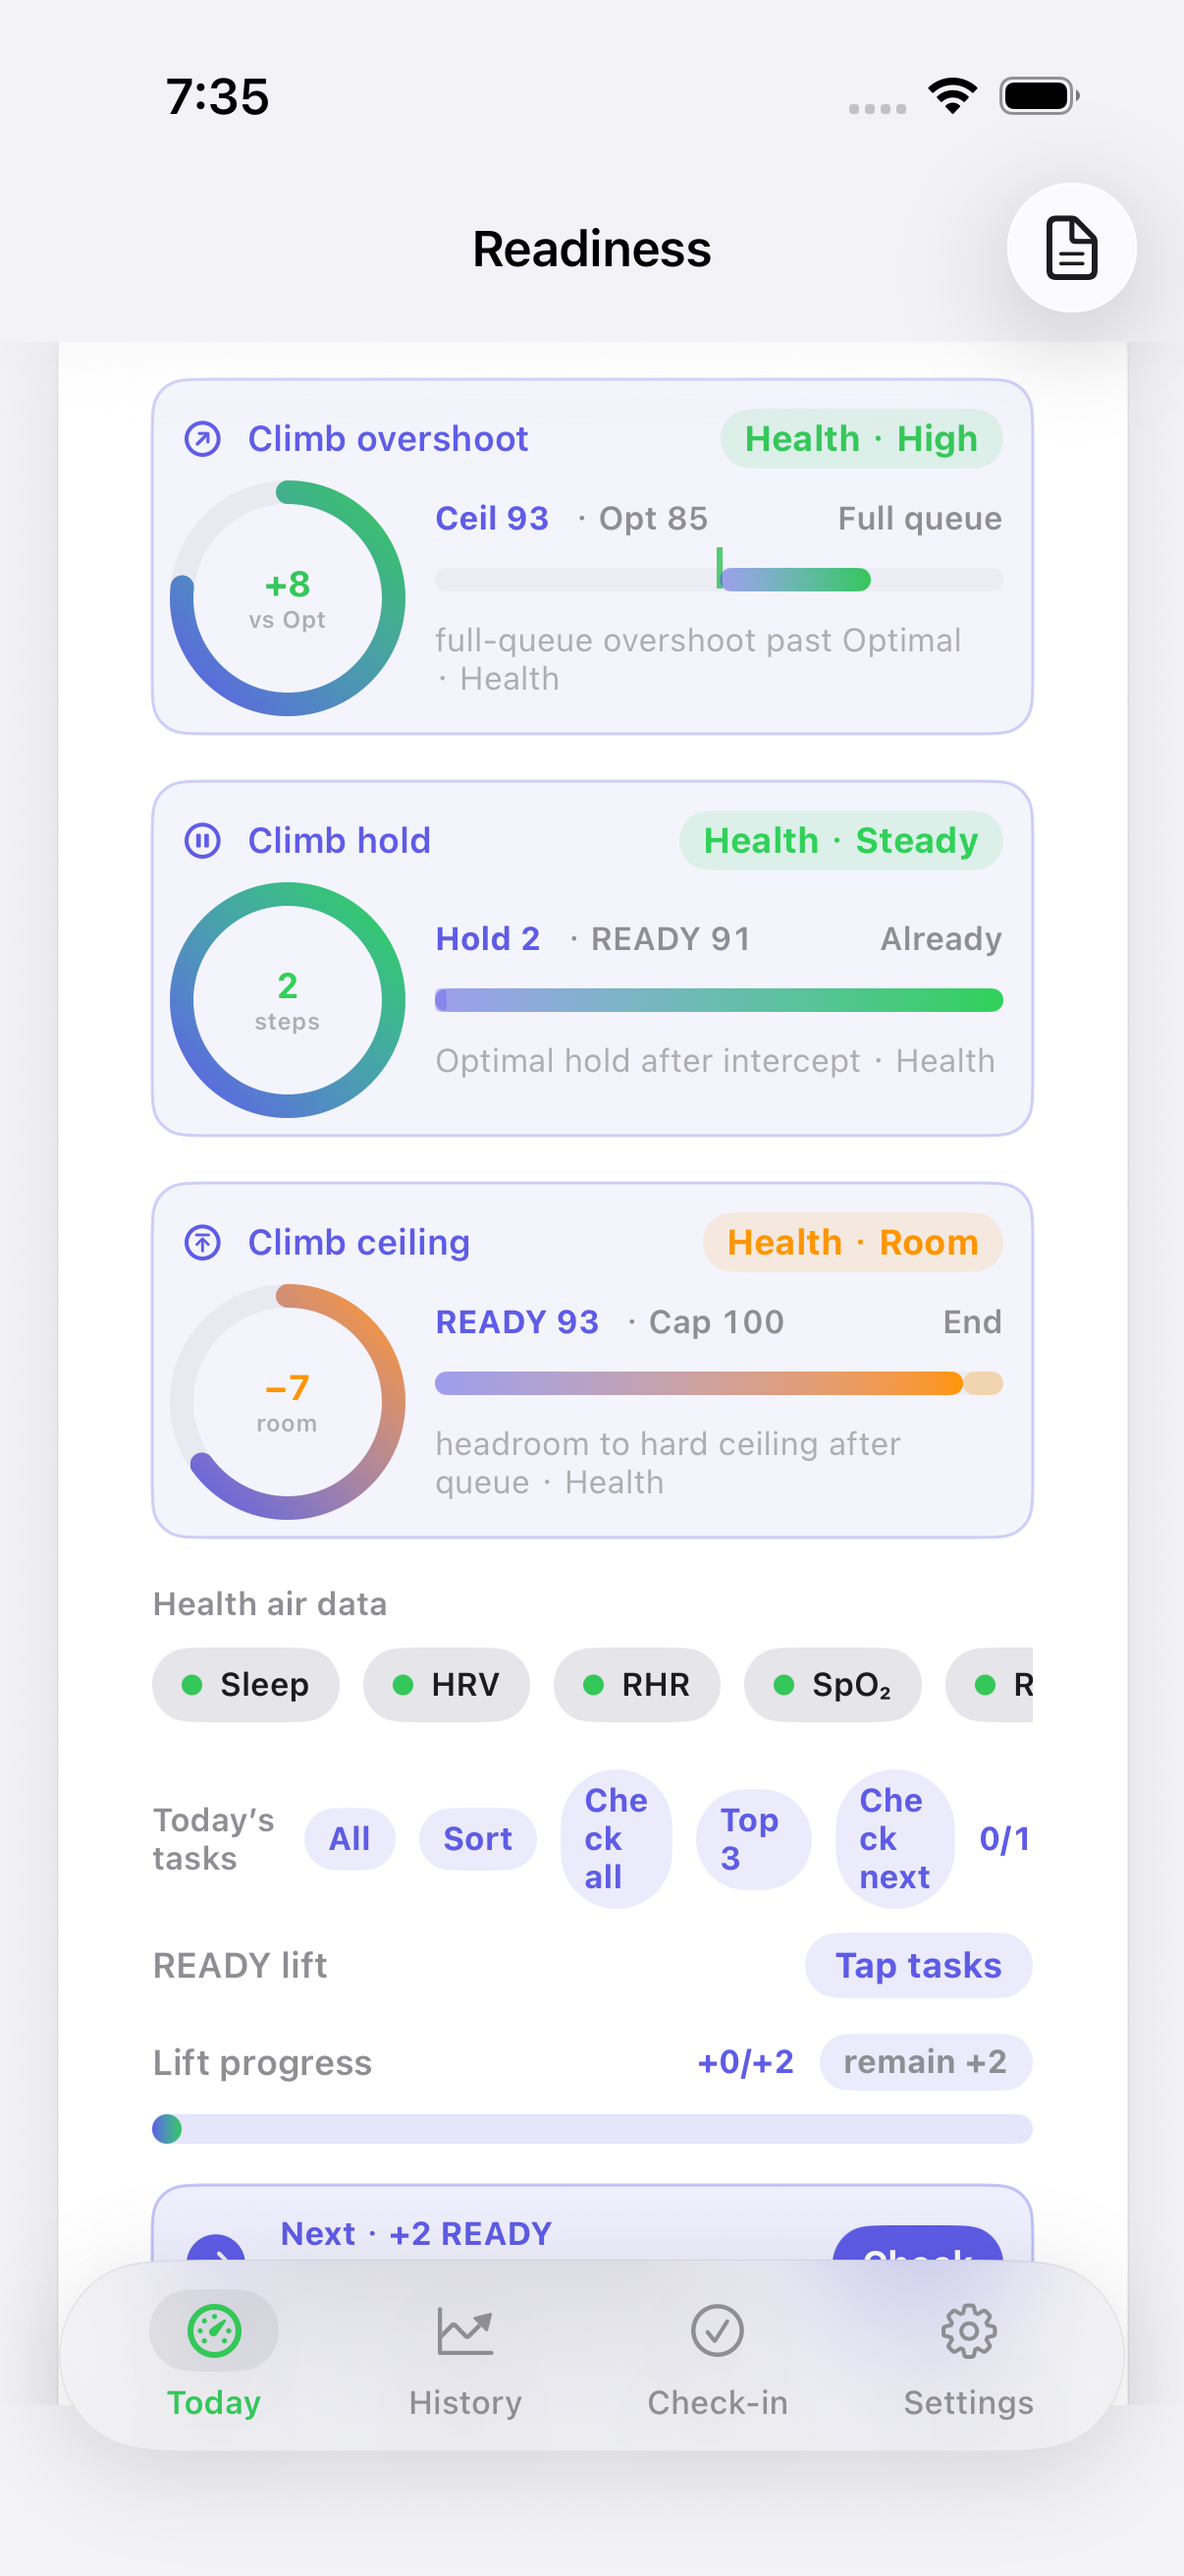
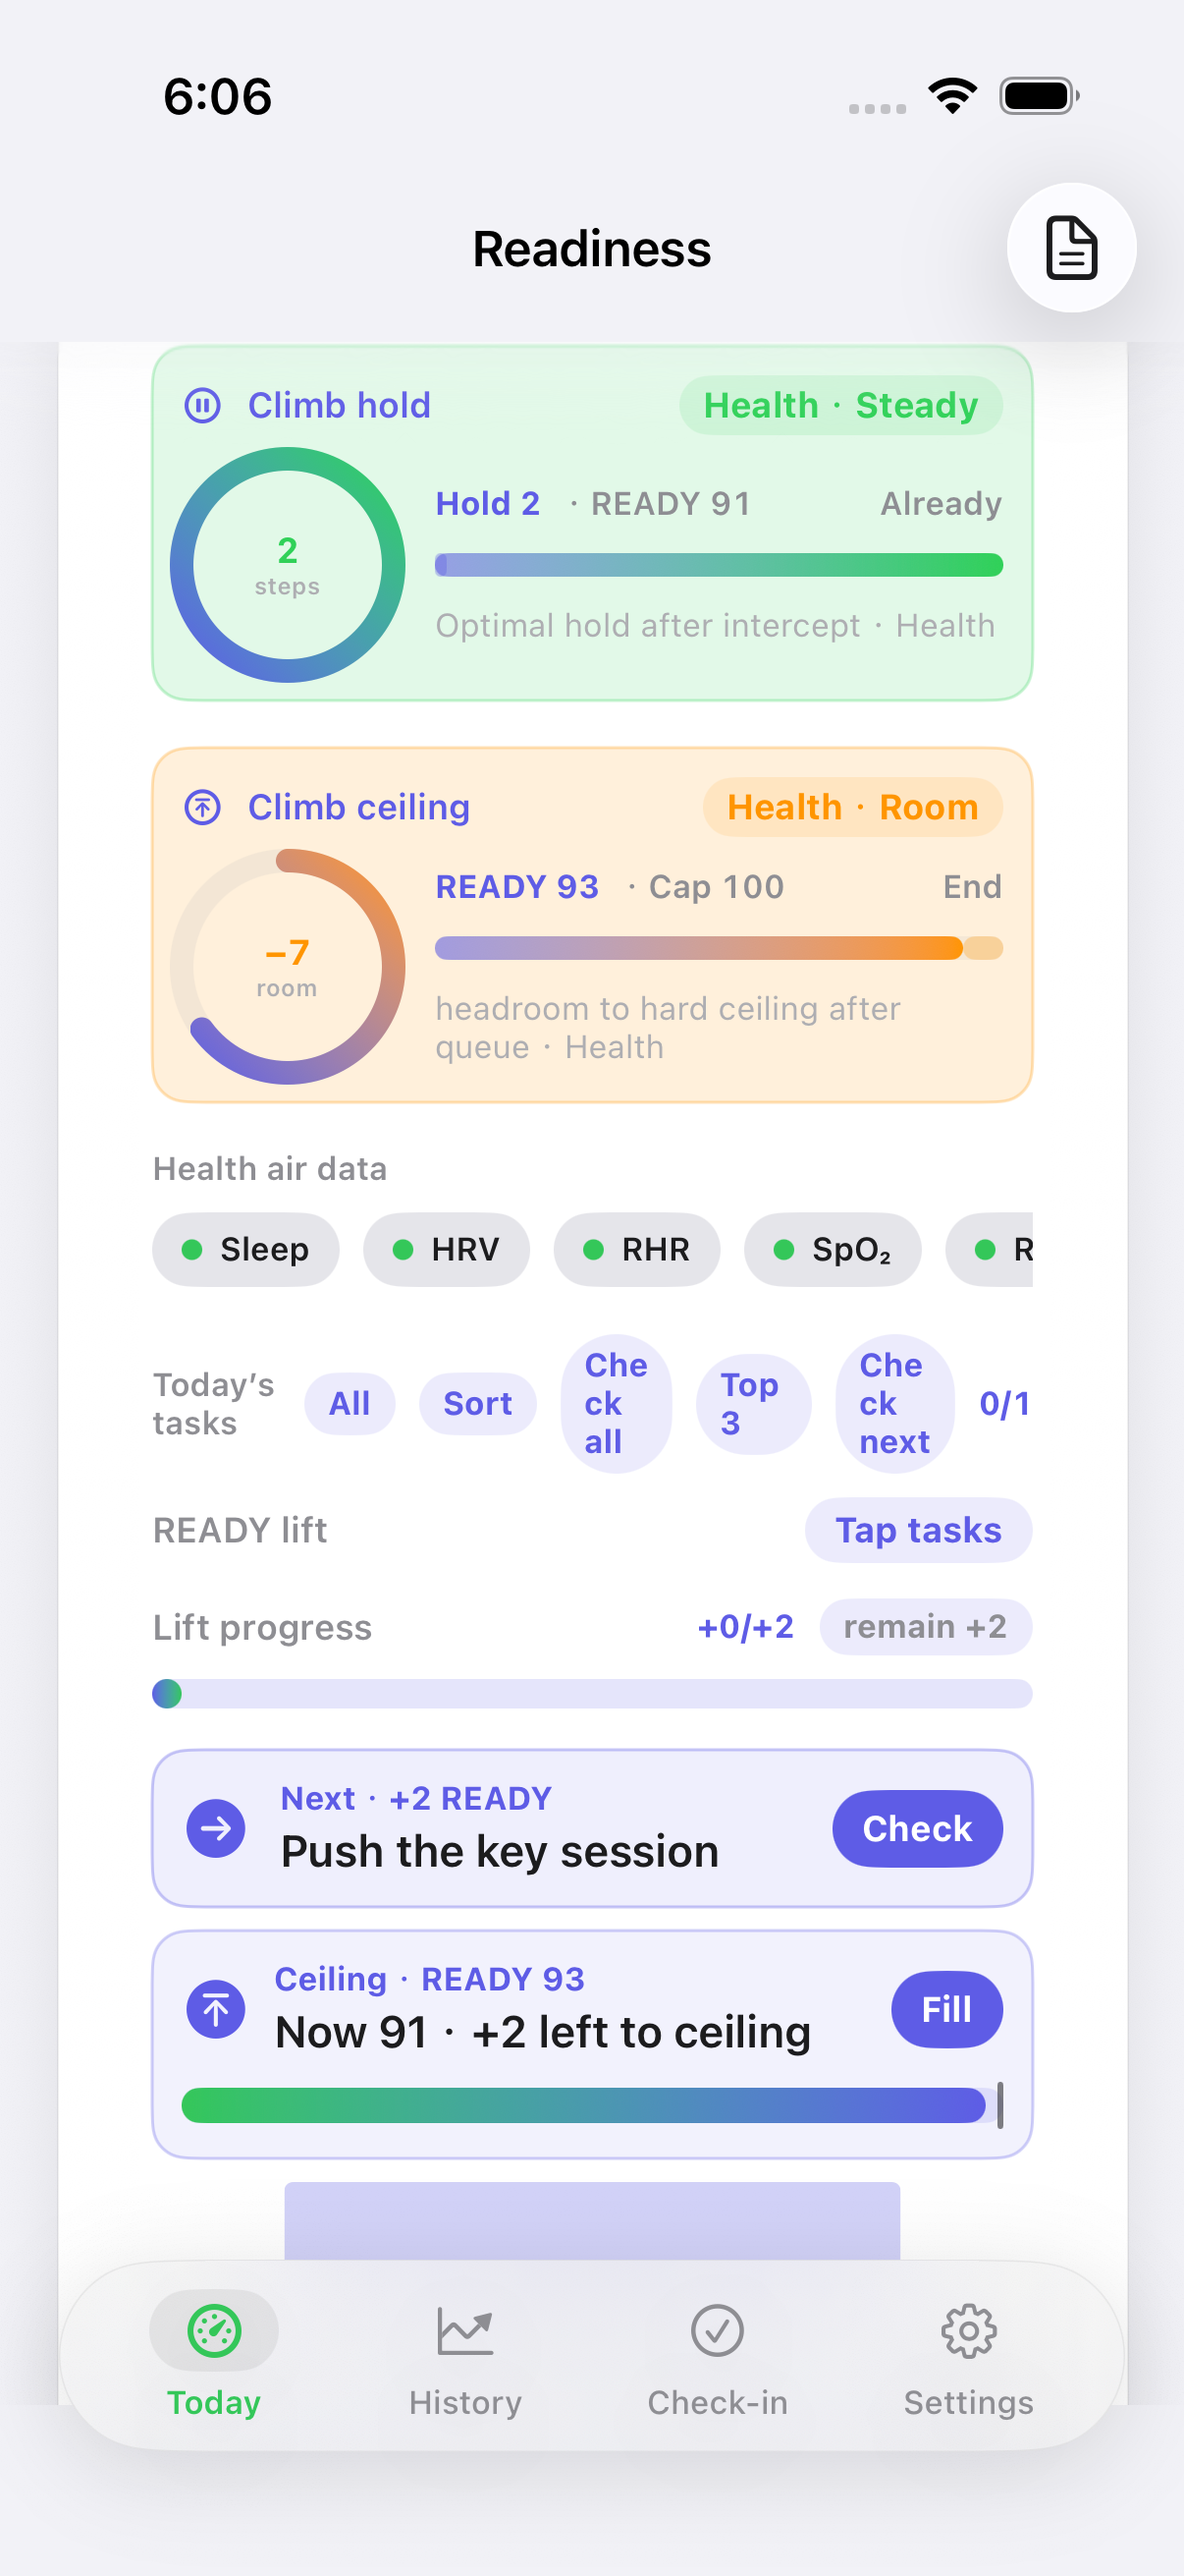
Honest #755: Simulator climb ceiling (WHOOP wells) (#785)
Why: keep Load Simulator climb visuals on WHOOP-well parity so the ceiling dial matches hold/overshoot/slack/margin/intercept/glide/runway/surplus siblings instead of older flat accent chrome.

Restyle the existing Simulator climb ceiling dial (`sim.load.ready.climb.ceiling`, Honest #716) with WHOOP wells.

- Idle Wide (headroom > 14): ghost/hairline 8%/28% using secondaryText
- Active Room (headroom <= 14): 14% fill + 28% hairline (caution)
- Active Near (headroom <= 5): 14% fill + 28% hairline (good)
- Active Cap (headroom == 0): 14% fill + 28% hairline (optimal)
- No new SurfaceID; no formula / verb / threshold / metric change

Proof: `testReadinessLoadSimulatorSurface` 764.512s, 0 failures (observer 779.508s); `.audit/verify-simulator-climb-ceiling.png`
model=deepseek-flash (mechanical pattern-copy of #754 wells applied locally)

Changed region(s): [[0.1227, 0.1236, 0.8897, 0.8959], [0.1227, 0.0309, 0.2148, 0.0618], [0.1534, 0.865, 0.2148, 0.8959]]

diff --git a/ReadinessTracker/Views/WhoopFeatures/ReadinessLoadSimulatorCard.swift b/ReadinessTracker/Views/WhoopFeatures/ReadinessLoadSimulatorCard.swift
@@ -5327,7 +5327,7 @@ struct ReadinessLoadSimulatorCard: View {
 
 
 
-    /// Honest #716: READY climb ceiling — headroom from full-queue READY to absolute 100.
+    /// Honest #716 / #755: READY climb ceiling — headroom from full-queue READY to absolute 100 (WHOOP wells).
     @ViewBuilder
     private var readyClimbCeilingDial: some View {
         let pending = tasks.filter { !completedTaskIDs.contains($0.id) }.sorted { $0.readyDelta > $1.readyDelta }
@@ -5374,6 +5374,8 @@ struct ReadinessLoadSimulatorCard: View {
         let disp = headroom == 0 ? "100" : "−\(headroom)"
         // dial fill: closer to cap → fuller (map headroom 0…20 → 1…0)
         let progress = min(1.0, max(0.0, 1.0 - Double(headroom) / 20.0))
+        let climbCeilingIsActive = headroom <= 14
+        let wellTone: Color = climbCeilingIsActive ? tone : RTColor.secondaryText
         return VStack(alignment: .leading, spacing: 8) {
             HStack(spacing: 8) {
                 Image(systemName: "arrow.up.to.line.circle")
@@ -5457,10 +5459,10 @@ struct ReadinessLoadSimulatorCard: View {
             }
         }
         .padding(10)
-        .background(accent.opacity(0.07), in: RoundedRectangle(cornerRadius: 12, style: .continuous))
+        .background(wellTone.opacity(climbCeilingIsActive ? 0.14 : 0.08), in: RoundedRectangle(cornerRadius: 12, style: .continuous))
         .overlay(
             RoundedRectangle(cornerRadius: 12, style: .continuous)
-                .stroke(accent.opacity(0.28), lineWidth: 1)
+                .stroke(wellTone.opacity(0.28), lineWidth: 1)
         )
         .accessibilityIdentifier(SurfaceID.readinessSimulatorClimbCeiling)
         .accessibilityLabel("Climb ceiling \(verb) \(disp)")

diff --git a/ReadinessTracker/Design/Theme.swift b/ReadinessTracker/Design/Theme.swift
@@ -419,7 +419,7 @@ enum SurfaceID {
     static let readinessSimulatorClimbSlack = "sim.load.ready.climb.slack"  // Honest #713 / #752
     static let readinessSimulatorClimbOvershoot = "sim.load.ready.climb.overshoot"  // Honest #714 / #753
     static let readinessSimulatorClimbHold = "sim.load.ready.climb.hold"  // Honest #715 / #754
-    static let readinessSimulatorClimbCeiling = "sim.load.ready.climb.ceiling"  // Honest #716
+    static let readinessSimulatorClimbCeiling = "sim.load.ready.climb.ceiling"  // Honest #716 / #755
     static let fitbitAirChipSparkRange = "fitbit.air.chip.spark.range"  // Honest #544
     static let healthAirChipSparkRange = "health.air.chip.spark.range"  // Honest #706
     static let fitbitAirChipMiniSpark = "fitbit.air.chip.spark"  // Honest #531

diff --git a/ReadinessTrackerUITests/SurfacesUITests.swift b/ReadinessTrackerUITests/SurfacesUITests.swift
@@ -11035,7 +11035,7 @@ final class SurfacesUITests: XCTestCase {
         saveShot("verify-simulator-climb-hold.png")
 
 
-        // Honest #716: READY climb ceiling
+        // Honest #716 / #755: READY climb ceiling (WHOOP wells)
         let climbCeiling = app.descendants(matching: .any)["sim.load.ready.climb.ceiling"].firstMatch
         XCTAssertTrue(climbCeiling.waitForExistence(timeout: 5)
                       || app.descendants(matching: .any)["sim.load.ready.climb.hold"].firstMatch.exists

diff --git a/.audit/decision-log-2026-11-04.md b/.audit/decision-log-2026-11-04.md
@@ -367,3 +367,8 @@
 | 05:42 HKT | #754 Simulator climb hold | prove | UITest suite green /tmp/RT-DD754 (765.045s, 0 failures; observer 779.052s); model=deepseek-flash |
 | 05:42 HKT | #754 Simulator climb hold | land | proof PNG + receipt; SID sim.load.ready.climb.hold; PR squash next; model=deepseek-flash |
 
+
+| 05:52 HKT | Honest #755 Simulator climb ceiling | model=deepseek-flash | restyle existing sim.load.ready.climb.ceiling after climb hold #754; WHOOP ghost/active wells; mechanical pattern-copy of #754 wells applied locally (no separate model iterate needed) | mid-ship |
+| 05:52 HKT | Honest #755 Simulator climb ceiling | prove | started UITest /tmp/RT-DD755; model=deepseek-flash | mid-ship |
+| 06:11 HKT | #755 Simulator climb ceiling | prove | UITest suite green /tmp/RT-DD755 (764.512s, 0 failures; observer 779.508s); model=deepseek-flash |
+| 06:11 HKT | #755 Simulator climb ceiling | land | proof PNG + receipt; SID sim.load.ready.climb.ceiling; PR squash next; model=deepseek-flash |

diff --git a/.audit/simulator-climb-ceiling.md b/.audit/simulator-climb-ceiling.md
@@ -1,5 +1,6 @@
-# Honest #716: Simulator climb ceiling
+# Honest #716 / #755: Simulator climb ceiling (WHOOP wells)
 
-Headroom from full-queue READY to absolute hard ceiling 100.
+Headroom from full-queue READY to absolute hard ceiling 100. Cap/Near/Room/Wide dial.
+Idle Wide (headroom > 14) = ghost/hairline 8/28 using secondaryText; active Room (headroom <= 14) = 14 fill + 28 hairline (caution); active Near (headroom <= 5) = 14 fill + 28 hairline (good); active Cap (headroom == 0) = 14 fill + 28 hairline (optimal).
 SurfaceID: `sim.load.ready.climb.ceiling`
 Proof: `.audit/verify-simulator-climb-ceiling.png`

diff --git a/.audit/features/simulator-climb-ceiling.md b/.audit/features/simulator-climb-ceiling.md
@@ -1,4 +1,6 @@
-# Honest #716: Simulator climb ceiling
+# Honest #716 / #755: Simulator climb ceiling (WHOOP wells)
 
 SurfaceID: `sim.load.ready.climb.ceiling`
+Idle Wide (headroom > 14) = ghost/hairline 8/28 using secondaryText; active Room (headroom <= 14) = 14 fill + 28 hairline (caution); active Near (headroom <= 5) = 14 fill + 28 hairline (good); active Cap (headroom == 0) = 14 fill + 28 hairline (optimal).
 Proof: `.audit/verify-simulator-climb-ceiling.png`
+UITest: `testReadinessLoadSimulatorSurface`
